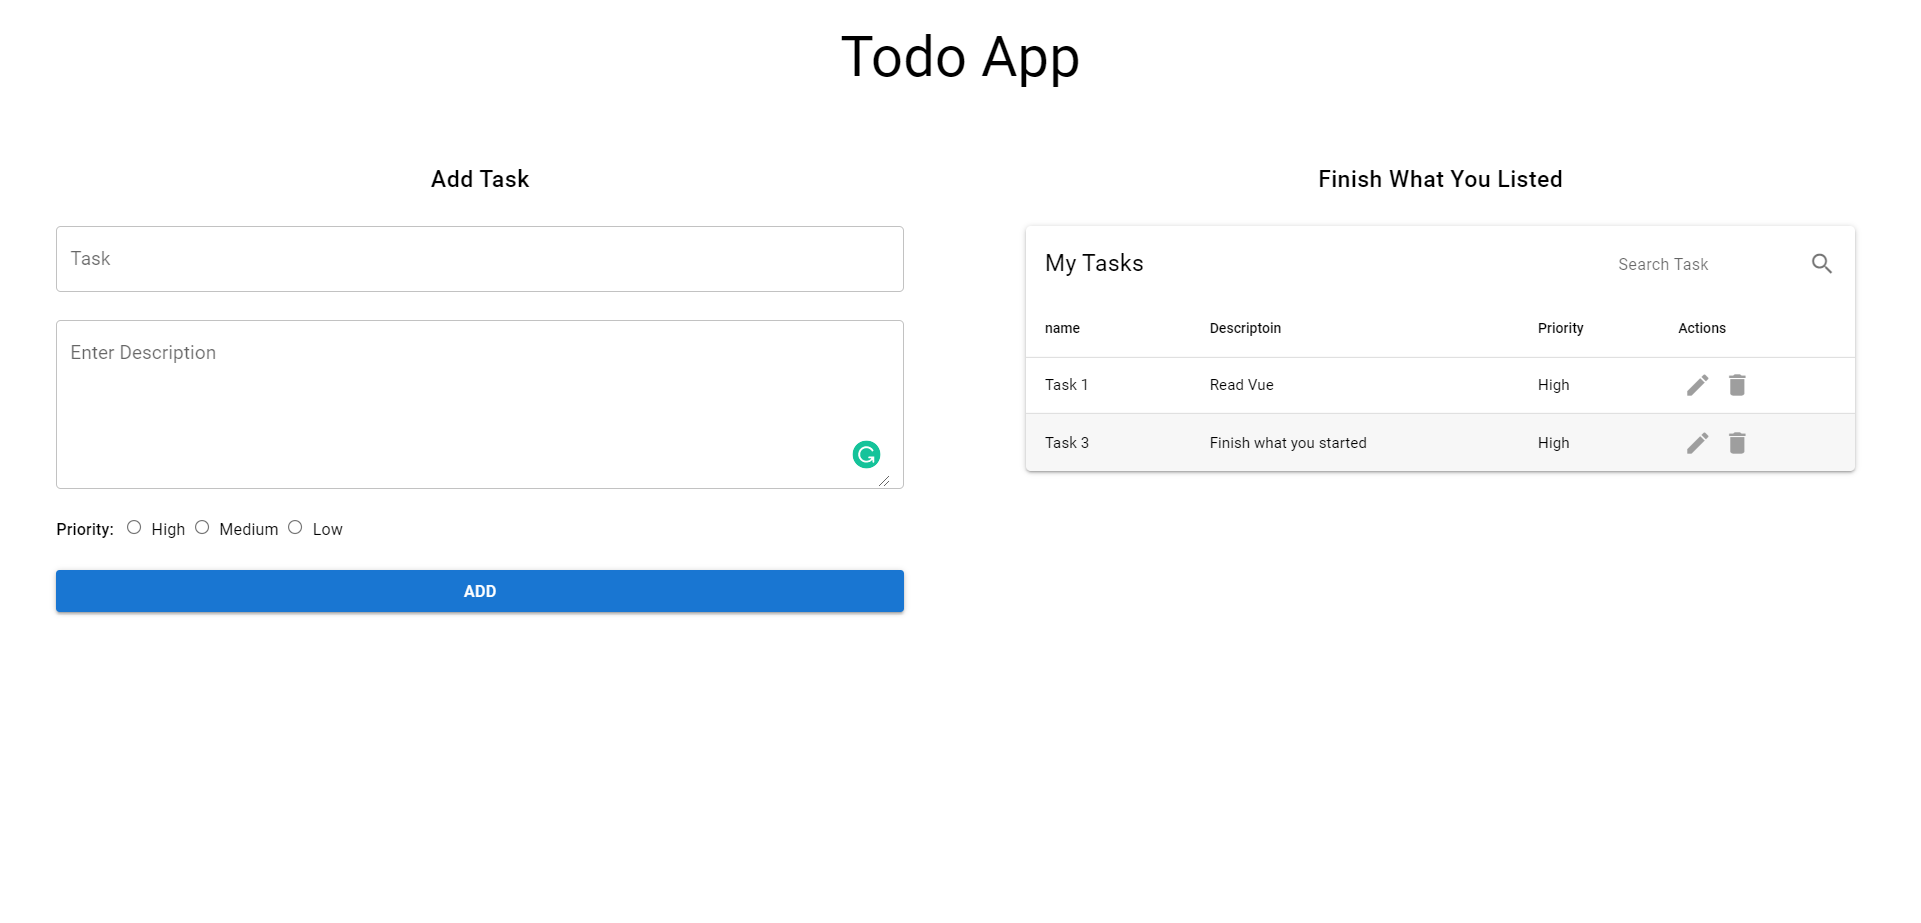
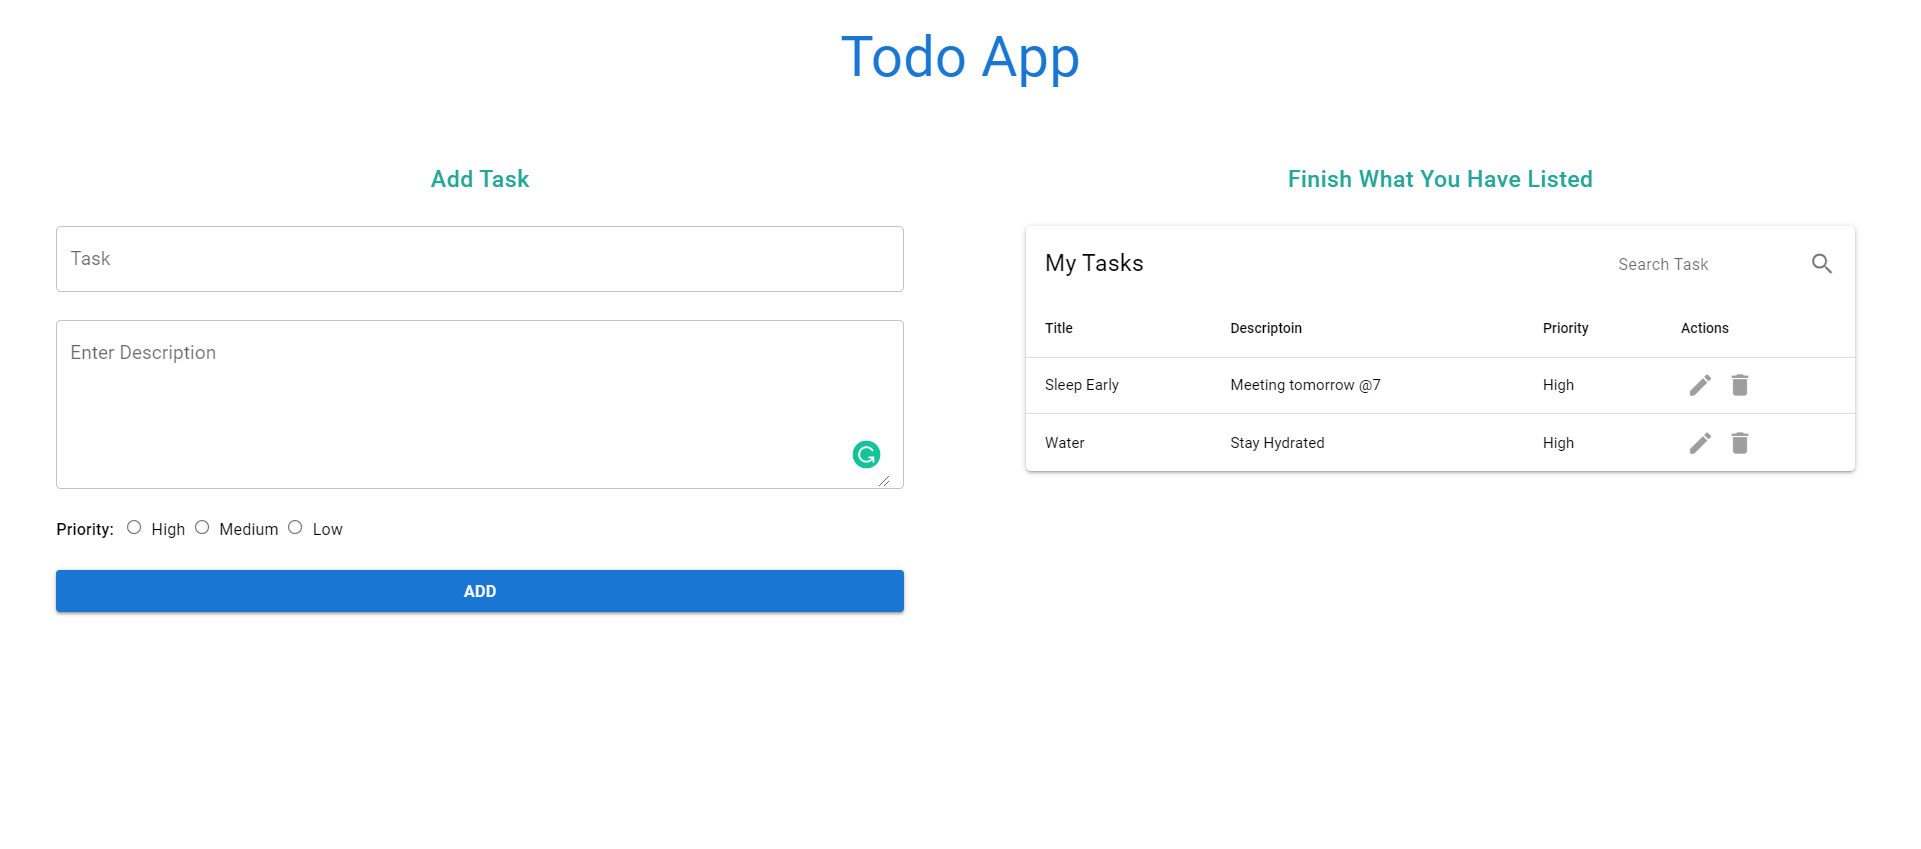
Quasar Todo Completed

diff --git a/src/components/Todo.vue b/src/components/Todo.vue
@@ -1,9 +1,11 @@
 <template>
-  <div class=" text-center">
-    <p class="text-h3 q-mt-lg">{{ msg }}</p>
+  <div class="text-center">
+    <p class="text-h3 q-mt-lg text-primary">{{ msg }}</p>
     <div class="row">
       <div class="FORM col-md-6 q-pa-xl">
-        <label class="text-h6"> {{ isEditing ? "Edit" : "Add" }} Task</label>
+        <label class="text-h6 text-secondary">
+          {{ isEditing ? "Edit" : "Add" }} Task</label
+        >
         <!-- =================================================================== -->
         <!-- Form For Adding and Editing Task-->
         <!-- =================================================================== -->

diff --git a/src/components/ListOperations.vue b/src/components/ListOperations.vue
@@ -3,7 +3,7 @@
     <!-- =================================================================== -->
     <!-- Filter Tasks -->
     <!-- =================================================================== -->
-    <p class="text-h6 ">Finish What You Listed</p>
+    <p class="text-h6 text-secondary">Finish What You Have Listed</p>
     <!-- <q-input
       outlined
       type="text"
@@ -96,7 +96,7 @@ export default {
         {
           name: "desc",
           required: true,
-          label: "name ",
+          label: "Title ",
           align: "left",
           field: row => row.name,
           format: val => `${val}`,
